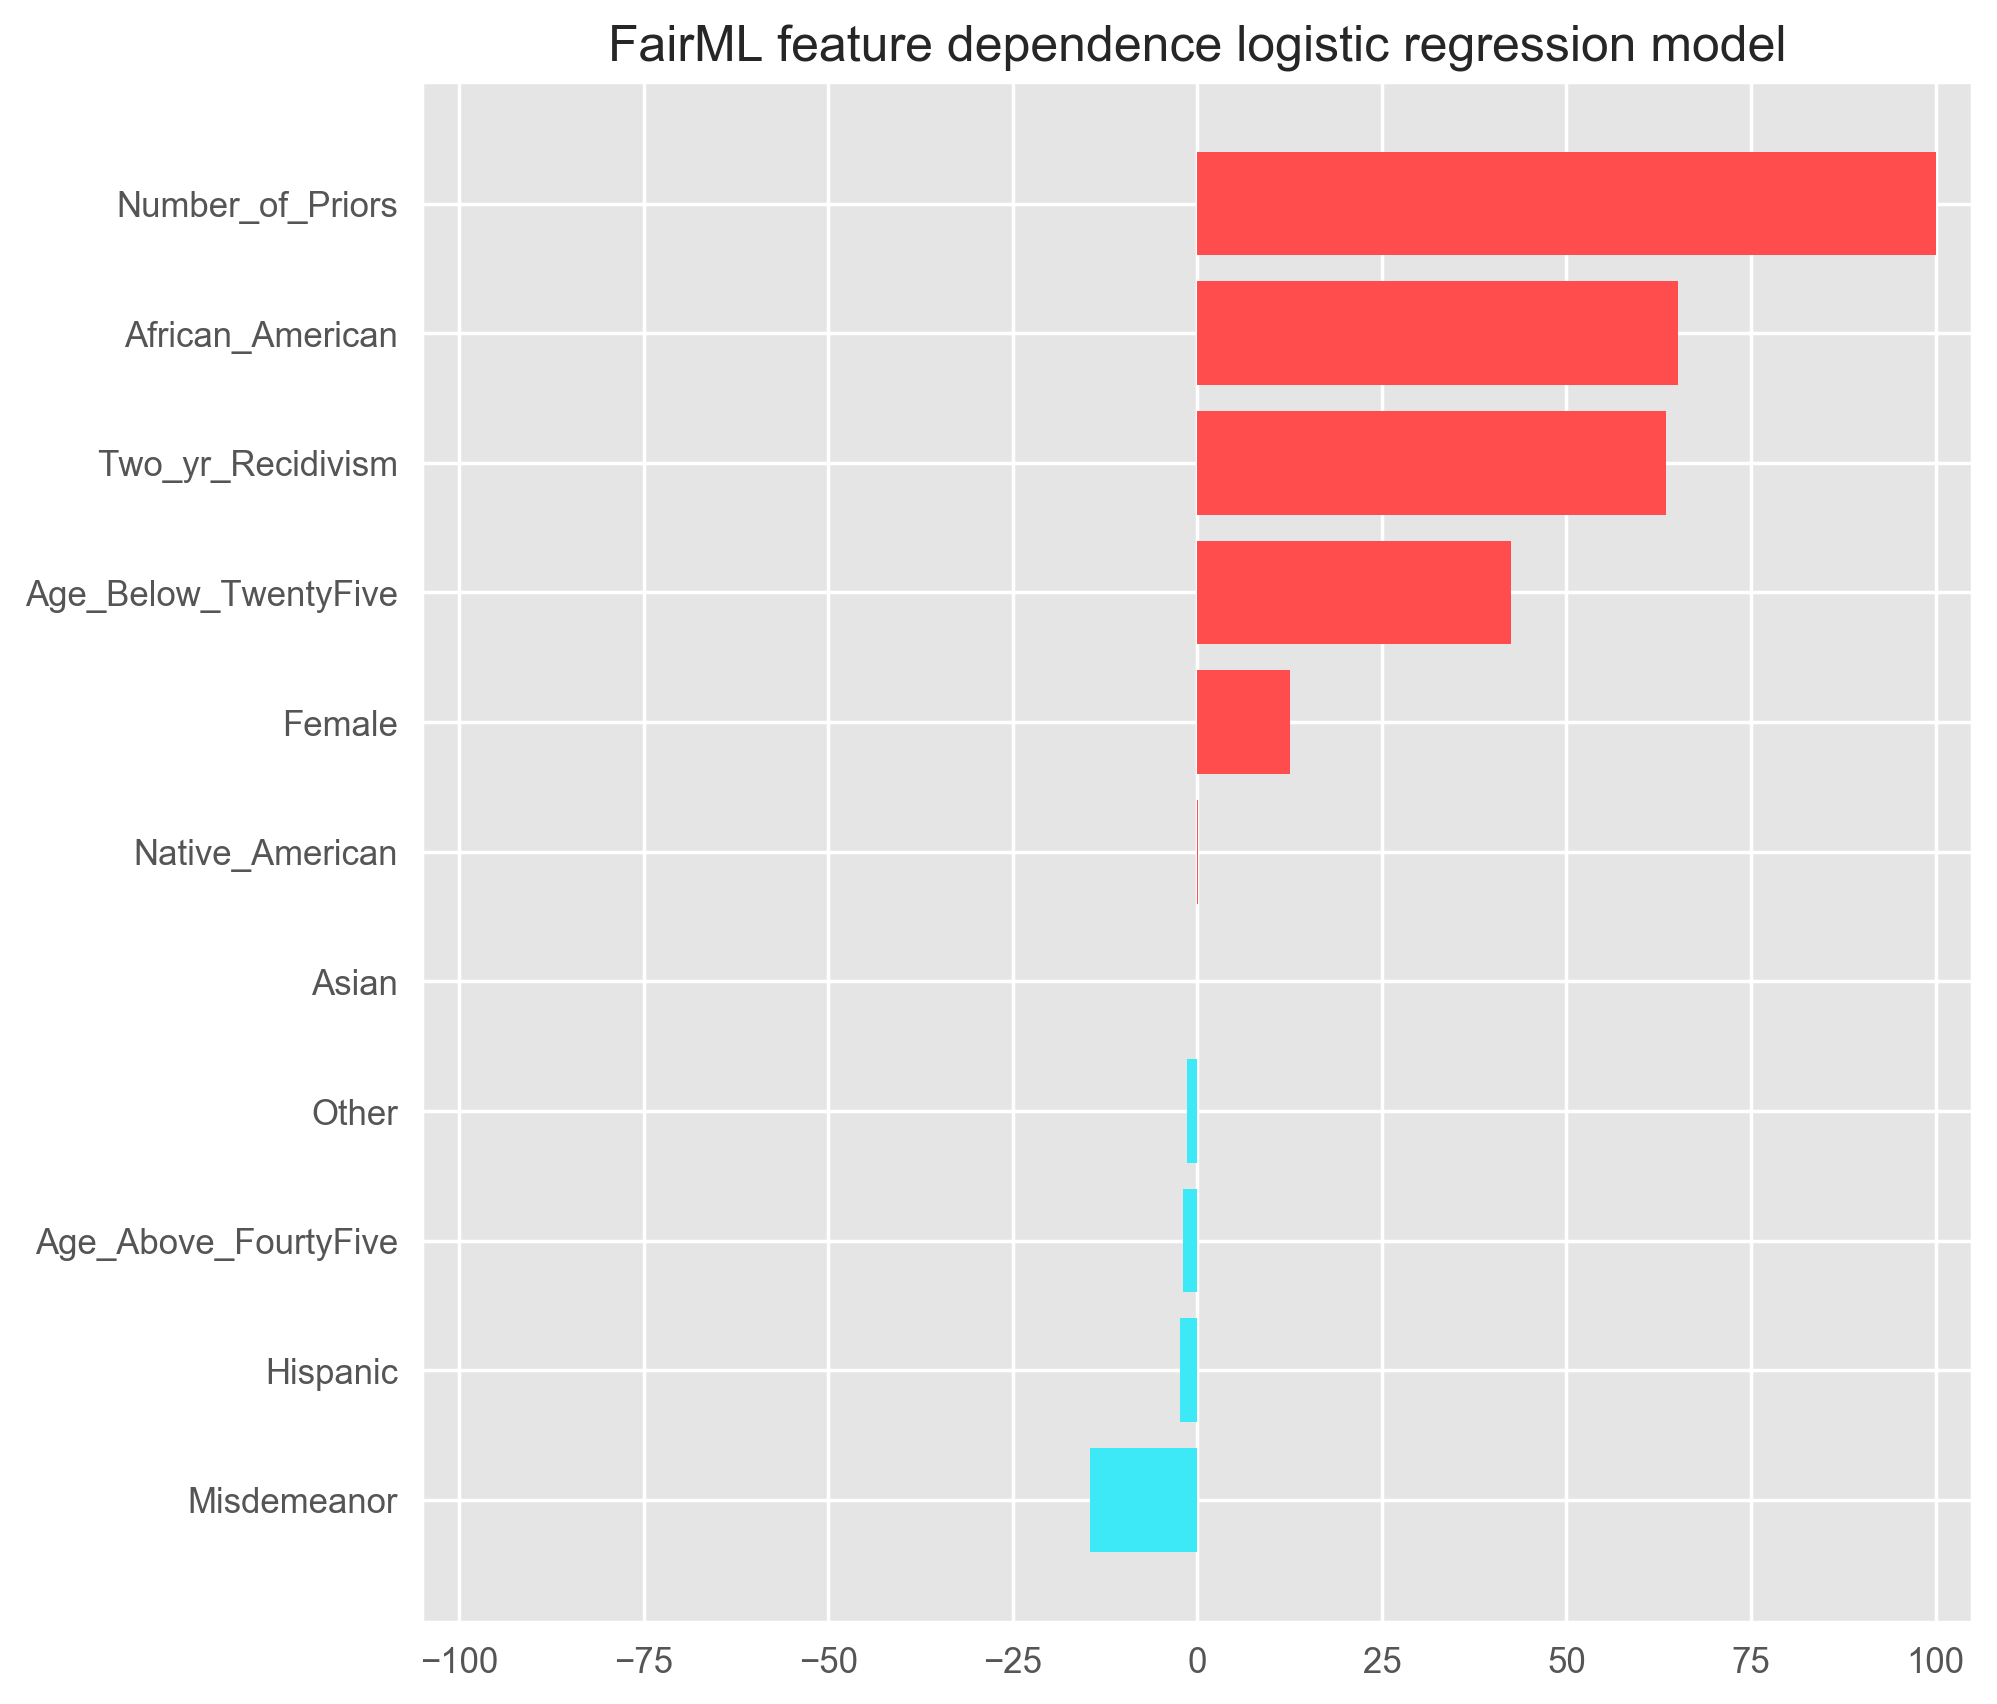
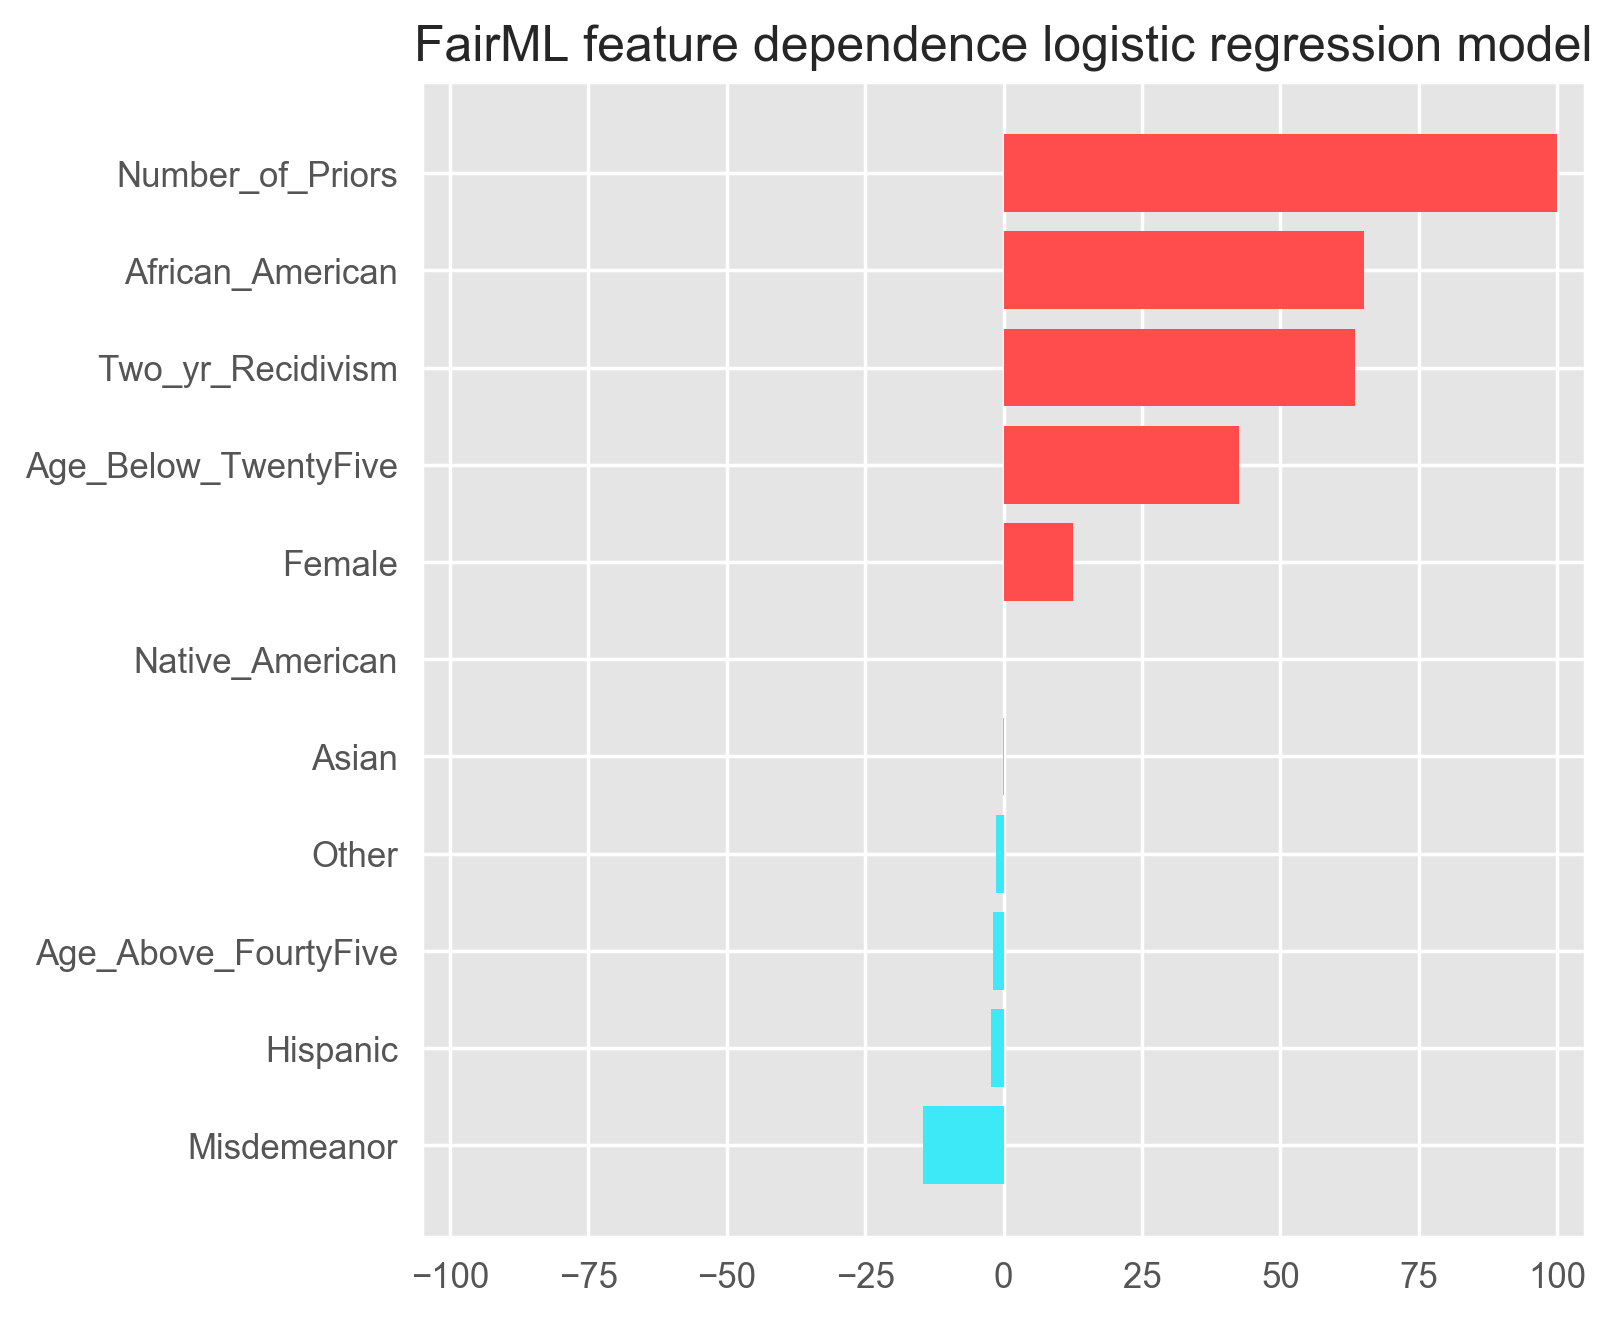
adding all figure and new changes

diff --git a/example.py b/example.py
@@ -15,7 +15,7 @@ from fairml import audit_model
 from fairml import plot_dependencies
 
 plt.style.use('ggplot')
-plt.rcParams['figure.figsize'] = (8, 8)
+plt.rcParams['figure.figsize'] = (6, 6)
 
 # read in propublica data
 propublica_data = pd.read_csv("./doc/example_notebooks/"

diff --git a/README.md b/README.md
@@ -91,9 +91,7 @@ Above, we provide a quick explanation of the key fairml functionality. Now we mo
 # read in the propublica data to be used for our analysis.
 propublica_data = pd.read_csv(
     filepath_or_buffer="./doc/example_notebooks/"
-    "propublica_data_for_fairml.csv",
-    sep=",",
-    header=0)
+    "propublica_data_for_fairml.csv")
 
 # create feature and design matrix for model building.
 compas_rating = propublica_data.score_factor.values
@@ -116,27 +114,18 @@ Now let's audit the model built with FairML.
 ```python
 
 #  call audit model with model
-total, _ = audit_model(
-    clf.predict,
-    propublica_data,
-    distance_metric="mse",
-    direct_input_pertubation_strategy="constant-median",
-    number_of_runs=10,
-    include_interactions=False,
-    external_data_set=None
-)
+total, _ = audit_model(clf.predict, propublica_data)
 
 # print feature importance
 print(total)
 
 # generate feature dependence plot
-_ = plot_dependencies(
+fig = plot_dependencies(
     total.get_compress_dictionary_into_key_median(),
     reverse_values=False,
-    title="FairML feature dependence",
-    save_path="fairml_propublica_linear_direct.eps",
-    show_plot=True
+    title="FairML feature dependence"
 )
+plt.savefig("fairml_ldp.eps", transparent=False, bbox_inches='tight')
 ```
 
 The demo above produces the figure below. 
@@ -152,7 +141,4 @@ Feel free to email the authors with any questions:
 
 The data used for the demo above is available in the repo at: 
 /doc/example_notebooks/propublica_data_for_fairml.csv
-
-
-
 
